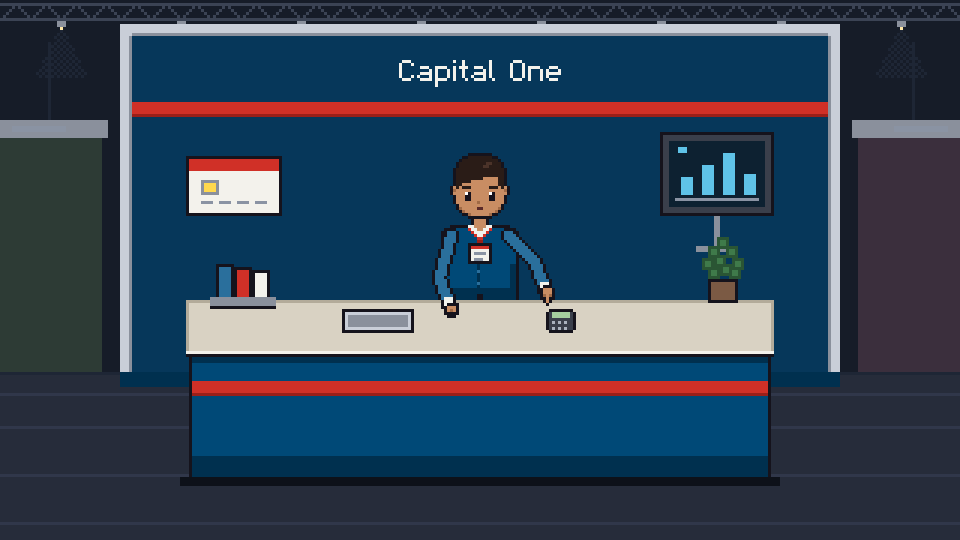
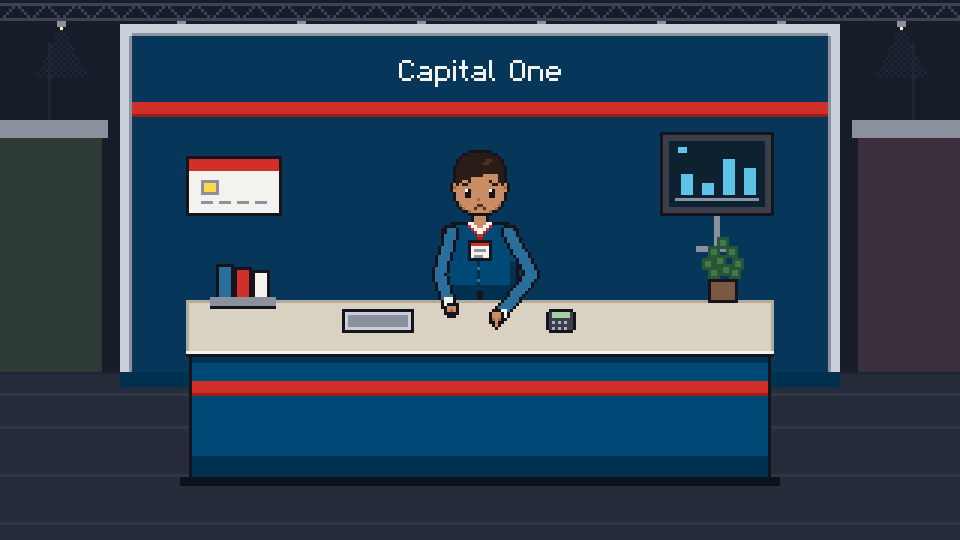
108: reviewer fixes (sample chips advance, Space after click, tray highlight, typewriter retype, hover glow, held items follow hands, asking brows, explaining pose, SR copy of line)

Changed region(s): [[0.4375, 0.2667, 0.5938, 0.6222], [0.7188, 0.2963, 0.75, 0.3556], [0.75, 0.2667, 0.7812, 0.2963]]

diff --git a/app/npc-concept/src/npc/engine.ts b/app/npc-concept/src/npc/engine.ts
@@ -77,7 +77,7 @@ export const ARM_POSES = {
   readL: arm(9, 40, 16, 42, 'grip'),
   readR: arm(38, 40, 31, 42, 'grip'),
   chinR: arm(37, 40, 27, 23, 'grip'),
-  pointDownR: arm(42, 36, 46, 46, 'pointDown'),
+  pointDownR: arm(41, 41, 29, 55, 'pointDown'),
   pointSideR: arm(41, 31, 47, 30, 'pointRight'),
   tapUpR: arm(42, 41, 50, 51, 'pointDown'),
   tapDownR: arm(42, 42, 50, 53, 'pointDown', true),
@@ -87,13 +87,16 @@ export const ARM_POSES = {
   toFace2L: arm(8, 30, 13, 15, 'grip'),
 } satisfies Record<string, ArmPose>
 
-interface HeldItem { key: ItemKey; x: number; y: number }
+/** x, y are local coords, or an offset from the hand when attached to an arm. */
+interface HeldItem { key: ItemKey; x: number; y: number; attach?: 'L' | 'R' }
 interface Frame {
   L: ArmPose
   R: ArmPose
   items: HeldItem[]
   eyes?: EyeKey
   brows?: BrowKey
+  /** Eyebrows that win over the emote (asking: up), except for 'concerned'. */
+  browsForce?: BrowKey
   headDy: number
   tilt: number
   lean: number
@@ -233,6 +236,7 @@ export class NpcEngine {
   }
   clearPaper() {
     this.paper = 'none'
+    this.paperHover = false
     this.emit()
   }
   setAmbient(on: boolean) {
@@ -254,6 +258,7 @@ export class NpcEngine {
     this.colors = buildColorTable(overrides)
   }
   reset() {
+    this.paperHover = false
     this.mode = 'checker'
     this.trayDoc = false
     this.paper = 'none'
@@ -371,13 +376,13 @@ export class NpcEngine {
       case 'asking':
         f.L = A.palmL
         f.tilt = 0.09
-        f.brows = 'raised'
+        f.browsForce = 'raised'
         f.eyes = 'open'
         break
       case 'receive-document': {
         f.L = seq(T, [[0, A.reach1L], [200, A.reach2L], [450, A.reach3L], [700, A.reach2LDoc], [950, A.reach1LDoc], [1200, A.holdDocL]])
         if (T >= 200 && T < 950) f.lean = -2
-        if (T >= 600) f.items.push({ key: 'docSmall', x: f.L.hand.x - 4, y: f.L.hand.y - 10 })
+        if (T >= 600) f.items.push({ key: 'docSmall', x: -4, y: -10, attach: 'L' })
         f.eyes = T < 700 ? 'down-left' : 'open'
         break
       }
@@ -395,7 +400,7 @@ export class NpcEngine {
         f.bubbleDots = rm ? 3 : 1 + (Math.floor(st / 400) % 3)
         break
       case 'explaining':
-        f.R = !rm && Math.floor(st / 450) % 2 === 1 ? { ...A.pointDownR, hand: pt(46, 47) } : A.pointDownR
+        f.R = !rm && Math.floor(st / 450) % 2 === 1 ? { ...A.pointDownR, hand: pt(29, 56) } : A.pointDownR
         f.eyes = 'open'
         break
       case 'slide-paper': {
@@ -410,7 +415,7 @@ export class NpcEngine {
         f.L = seq(T, [[0, A.toFace1L], [250, A.toFace2L], [600, A.restL]])
         if (T >= 850) {
           f.R = A.plannerR
-          f.items.push({ key: 'planner', x: A.plannerR.hand.x - 5, y: A.plannerR.hand.y - 9 })
+          f.items.push({ key: 'planner', x: -5, y: -9, attach: 'R' })
         }
         f.glance = T >= 1300
         break
@@ -428,8 +433,7 @@ export class NpcEngine {
     // An arm that leaves a two-handed document hands it to the other hand.
     if (f.items.some((i) => i.key === 'docHeld')) {
       f.items = f.items.filter((i) => i.key !== 'docHeld')
-      const keep = usesR ? A.readL : A.readR
-      f.items.push({ key: 'docSmall', x: keep.hand.x - 4, y: keep.hand.y - 10 })
+      f.items.push({ key: 'docSmall', x: -4, y: -10, attach: usesR ? 'L' : 'R' })
     }
     if (usesR) f.items = f.items.filter((i) => i.key !== 'planner')
     f.glance = false
@@ -557,7 +561,8 @@ export class NpcEngine {
     hb.blit(EYES[this.eyesFor(f)], m + EYES_POS.x, EYES_POS.y)
     if (this.mode === 'coach') hb.blit(GLASSES, m + GLASSES_POS.x, GLASSES_POS.y)
     const face = EMOTE_FACE[this.emoteV]
-    hb.blit(BROWS[face.brows ?? f.brows ?? 'neutral'], m + BROWS_POS.x, BROWS_POS.y)
+    const brows = f.browsForce && this.emoteV !== 'concerned' ? f.browsForce : face.brows ?? f.brows ?? 'neutral'
+    hb.blit(BROWS[brows], m + BROWS_POS.x, BROWS_POS.y)
     hb.blit(MOUTHS[this.mouthFor()], m + MOUTH_POS.x, MOUTH_POS.y)
     const s = { w: hb.w, h: hb.h, px: hb.px }
     if (f.tilt) this.screen.blitShear(s, ox + HEAD_POS.x - m, oy + HEAD_POS.y, f.tilt, HEAD.h - 1)
@@ -583,8 +588,9 @@ export class NpcEngine {
       b.thickLine(cx, cy, cx, cy, 2, 1, IDX.shirt)
     }
     for (const it of f.items) {
-      const grounded = it.key === 'docSmall' && f.L.grounded
-      const p = place(pt(it.x, it.y), grounded)
+      const holder = it.attach === 'L' ? f.L : it.attach === 'R' ? f.R : null
+      const at = holder ? pt(holder.hand.x + it.x, holder.hand.y + it.y) : pt(it.x, it.y)
+      const p = place(at, !!holder?.grounded)
       b.blit(ITEMS[it.key], p.x, p.y)
     }
     for (const [, a] of arms) {

diff --git a/app/npc-concept/src/App.tsx b/app/npc-concept/src/App.tsx
@@ -27,7 +27,9 @@ export default function App() {
   const lineId = useRef(0)
   const lineDone = useRef<(() => void) | null>(null)
   const skipWait = useRef<(() => void) | null>(null)
+  const skipRequested = useRef(false)
   const runToken = useRef(0)
+  const dropTimer = useRef(0)
 
   const say = useCallback((text: string, nextChips: string[] = []) => {
     lineId.current += 1
@@ -41,7 +43,15 @@ export default function App() {
     lineDone.current?.()
     skipWait.current?.()
     setHasNext(false)
+    skipRequested.current = false
     setSample((s) => (s === 'running' ? 'idle' : s))
+    if (document.body.dataset.sample === 'running') document.body.dataset.sample = 'stopped'
+  }, [])
+
+  /** Next button or any chip during the sample: move on now instead of waiting. */
+  const advanceSample = useCallback(() => {
+    if (skipWait.current) skipWait.current()
+    else skipRequested.current = true
   }, [])
 
   const playSample = useCallback(async () => {
@@ -49,12 +59,23 @@ export default function App() {
     const live = () => runToken.current === token
     const wait = (ms: number) =>
       new Promise<void>((resolve) => {
-        const id = window.setTimeout(resolve, ms)
-        skipWait.current = () => {
+        if (skipRequested.current) {
+          skipRequested.current = false
+          resolve()
+          return
+        }
+        const finish = () => {
           window.clearTimeout(id)
+          skipWait.current = null
           resolve()
         }
+        const id = window.setTimeout(finish, ms)
+        skipWait.current = () => {
+          skipRequested.current = false
+          finish()
+        }
       })
+    skipRequested.current = false
     setSample('running')
     document.body.dataset.sample = 'running'
     const h = npc.current!
@@ -84,7 +105,8 @@ export default function App() {
     h.emote('warm')
     h.setState('receive-document')
     say(`Thank you. I have ${file.name}. Let me read it.`)
-    window.setTimeout(() => h.snapshot()?.state === 'receive-document' && h.setState('reading'), h.settleIn() + 1200)
+    window.clearTimeout(dropTimer.current)
+    dropTimer.current = window.setTimeout(() => h.snapshot()?.state === 'receive-document' && h.setState('reading'), h.settleIn() + 1200)
   }, [say, stopSample])
 
   const onPaperClick = useCallback(() => {
@@ -98,10 +120,14 @@ export default function App() {
       void playSample()
       return
     }
+    if (sample === 'running') {
+      advanceSample()
+      return
+    }
     stopSample()
     npc.current?.setState('listening')
     say(`Noted: "${text}". I'll keep that in mind.`)
-  }, [playSample, say, stopSample])
+  }, [advanceSample, playSample, sample, say, stopSample])
 
   // D toggles the debug panel (not while typing).
   useEffect(() => {
@@ -151,7 +177,7 @@ export default function App() {
               lineDone.current = null
             }}
             hasNext={hasNext}
-            onNext={() => skipWait.current?.()}
+            onNext={advanceSample}
             chips={chips}
             onChip={onReply}
             onSubmit={onReply}
@@ -185,12 +211,22 @@ export default function App() {
             <section>
               <h3>Sample</h3>
               <div className="npc-debug__grid">
-                <button type="button" data-npc-action="play-sample" onClick={() => void playSample()}>Play sample conversation</button>
+                <button
+                  type="button"
+                  data-npc-action="play-sample"
+                  onClick={(e) => {
+                    if (e.detail > 0) e.currentTarget.blur() // mouse click: let Space reach the dialogue
+                    void playSample()
+                  }}
+                >
+                  Play sample conversation
+                </button>
                 <button type="button" data-npc-action="stop-sample" onClick={stopSample}>Stop</button>
                 <button
                   type="button"
                   data-npc-action="test-line"
-                  onClick={() => {
+                  onClick={(e) => {
+                    if (e.detail > 0) e.currentTarget.blur()
                     stopSample()
                     npc.current?.setState('talking')
                     say(TEST_LINE)

diff --git a/app/npc-concept/src/npc/NpcScene.tsx b/app/npc-concept/src/npc/NpcScene.tsx
@@ -135,7 +135,7 @@ export const NpcScene = forwardRef<NpcHandle, NpcSceneProps>(function NpcScene(p
         aria-label="Document tray. Choose a file to hand to the agent, or drop one anywhere on the page."
         data-npc-hotspot="tray"
         onClick={() => fileRef.current?.click()}
-        onFocus={() => engineRef.current?.setDropHover(true)}
+        onFocus={(e) => e.currentTarget.matches(':focus-visible') && engineRef.current?.setDropHover(true)}
         onBlur={() => engineRef.current?.setDropHover(false)}
       />
       <input
@@ -145,6 +145,7 @@ export const NpcScene = forwardRef<NpcHandle, NpcSceneProps>(function NpcScene(p
         tabIndex={-1}
         onChange={(e) => {
           const file = e.target.files?.[0]
+          engineRef.current?.setDropHover(false)
           if (file) propsRef.current.onFileDrop?.(file)
           e.target.value = ''
         }}

diff --git a/app/npc-concept/src/npc/DialogueBox.tsx b/app/npc-concept/src/npc/DialogueBox.tsx
@@ -96,10 +96,12 @@ export function DialogueBox(props: DialogueBoxProps) {
       <div className="npc-dialogue__body" onClick={advance}>
         <p className="npc-dialogue__text" aria-live="polite" aria-atomic="true">
           <span key={line.id}>
-            <span className="npc-sr-only">{line.speaker} says: </span>
-            {chars.map((c, i) => (
-              <span key={i} className={i < tw.printed ? undefined : 'npc-unprinted'}>{c}</span>
-            ))}
+            <span className="npc-sr-only">{line.speaker} says: {line.text}</span>
+            <span aria-hidden="true">
+              {chars.map((c, i) => (
+                <span key={i} className={i < tw.printed ? undefined : 'npc-unprinted'}>{c}</span>
+              ))}
+            </span>
           </span>
         </p>
         {showNext && (

diff --git a/app/npc-concept/src/npc/hooks.ts b/app/npc-concept/src/npc/hooks.ts
@@ -74,7 +74,11 @@ export function useTypewriter(
   })
 
   useEffect(() => {
-    if (done) return
+    if (done) {
+      if (st.key === lineKey) return
+      const id = window.setTimeout(() => setSt({ key: lineKey, n: text.length }), 0)
+      return () => window.clearTimeout(id)
+    }
     if (instant) {
       const id = window.setTimeout(() => setSt({ key: lineKey, n: text.length }), 0)
       return () => window.clearTimeout(id)
@@ -89,7 +93,7 @@ export function useTypewriter(
       setSt({ key: lineKey, n: printed + 1 })
     }, delay)
     return () => window.clearTimeout(id)
-  }, [printed, done, instant, text, lineKey, opts.speed])
+  }, [printed, done, instant, text, lineKey, opts.speed, st.key])
 
   useEffect(() => {
     if (done) onDone.current?.()

diff --git a/app/npc-concept/ART-GUIDE.md b/app/npc-concept/ART-GUIDE.md
@@ -118,8 +118,9 @@ UI colours (DOM, mirrored as CSS variables in `npc.css`): `uiBg #0b1d2e`, `uiBgD
 ## Animation system
 - Fixed step: 60 updates per second (`STEP_MS`), driven by `requestAnimationFrame` with an accumulator. Timing does not depend on the display's refresh rate. Positions are whole pixels.
 - API: `setState(state)`, `emote(emote)`, `gesture(gesture)`, `talk(char)`, `stopTalking()`, `setTrayDoc`, `setDropHover`, `clearPaper`, `setPalette`, `reset`, `settleIn()` (ms until a one-shot state has finished), `snapshot()`.
-- Emotes and gestures combine with any state. A non-neutral emote wins the eyebrows; the state's preferred eyebrows (asking: raised, thinking: quizzical) show with `neutral`.
-- Idle never freezes: breathing bob, blinks and glances run in every state unless reduced motion is on.
+- Emotes and gestures combine with any state. A non-neutral emote wins the eyebrows, except in `asking`, which keeps its eyebrows up unless the emote is `concerned` (whose eyebrows are already raised at the inner ends). `thinking` shows quizzical eyebrows with `neutral`.
+- Idle never freezes: the breathing bob and blinks run in every state unless reduced motion is on. Glances run in `idle`, after the wave in `greeting` and after the switch in `coach` (other states fix the eyes).
+- `setState()` clears any running gesture, so call `gesture()` after `setState()`, not before.
 
 ## States: frames and timings
 | State | Frames | Timing |
@@ -132,7 +133,7 @@ UI colours (DOM, mirrored as CSS variables in `npc.css`): `uiBg #0b1d2e`, `uiBgD
 | `receive-document` | arm 6 keyframes: reach 1, reach 2, take, back 2, back 1, hold | 0, 200, 450, 700, 950, 1200 ms; document leaves the tray at 600 ms; lean 2 px from 200 to 950 ms |
 | `reading` | both hands hold the document (1); eyes 4 (down-left, down, down-right, half) | one line every 1.5 s (450, 450, 450, 150 ms) |
 | `thinking` | hand to chin (1); eyes up-right; bubble dots 3 | dots step every 400 ms |
-| `explaining` | point down (2: tap +1 px) | 450 ms per frame |
+| `explaining` | point down at the front-centre of the counter, where the summary lands and towards the chat's reason cards below (2: tap +1 px) | 450 ms per frame |
 | `slide-paper` | push hand follows the sheet (12 positions), retract (1), glow 4 | push 250 to 1000 ms, retract to 1200 ms, glow 1000 to 1600 ms (once); sheet clickable from 1000 ms |
 | `coach` | hand to face 2, glasses on, rest, planner up | 0, 250, glasses at 450, 600, 850 ms; glasses stay on in every later state (coach mode) |
 
@@ -176,14 +177,14 @@ Left and right always mean screen left and right.
 ## Accessibility
 The brief is Capital One's "Make credit accessible", so the agent has to work for everyone.
 
-**Dialogue is real text.** `DialogueBox` renders the whole line as DOM text inside `<p aria-live="polite" aria-atomic="true">`. The typewriter only changes a class on characters not yet printed (`color: transparent`), never the text itself, so a screen reader hears each line once, in full, prefixed with "Agent says:". Characters do not jump between lines while typing, because the space for the whole line is already reserved.
+**Dialogue is real text.** `DialogueBox` renders each line as DOM text inside `<p aria-live="polite" aria-atomic="true">`. The live region holds one plain copy of the line for screen readers ("Agent says: ...", visually hidden), next to the visible typing layer, which is `aria-hidden` and built from one span per character. The typewriter only changes a class on characters not yet printed (`color: transparent`), never the text, so a screen reader hears each line once, in full, and reads it as normal text afterwards. Characters do not jump between lines while typing, because the space for the whole line is already reserved.
 
 **The canvas describes itself.** The canvas has `role="img"` and an `aria-label` rebuilt from the engine snapshot on every state, emote or scene change (`describe.ts`), for example: "Credit agent at the Capital One stand, reading your document line by line. Expression: concerned but kind. A summary sheet is at the front of the counter."
 
 **Keyboard.** Every control is a native button, radio or input with a visible focus ring (3px `#ffd84d`, offset 2 to 3px):
 | Control | Keys |
 |---|---|
-| Drop zone (tray) | Tab to it (it lights up like a drag), Enter or Space opens the file picker; picking a file fires `onFileDrop` just like a drop |
+| Drop zone (tray) | Tab to it (keyboard focus lights it up like a drag), Enter or Space opens the file picker; picking a file fires `onFileDrop` just like a drop |
 | Summary sheet (once it is on the counter) | Tab to it, Enter or Space fires `onPaperClick` |
 | Next / show whole line | Tab to the arrow button, or press Space anywhere outside a control |
 | Text speed | Tab to the group, arrow keys switch 1x, 2x and Instant |
